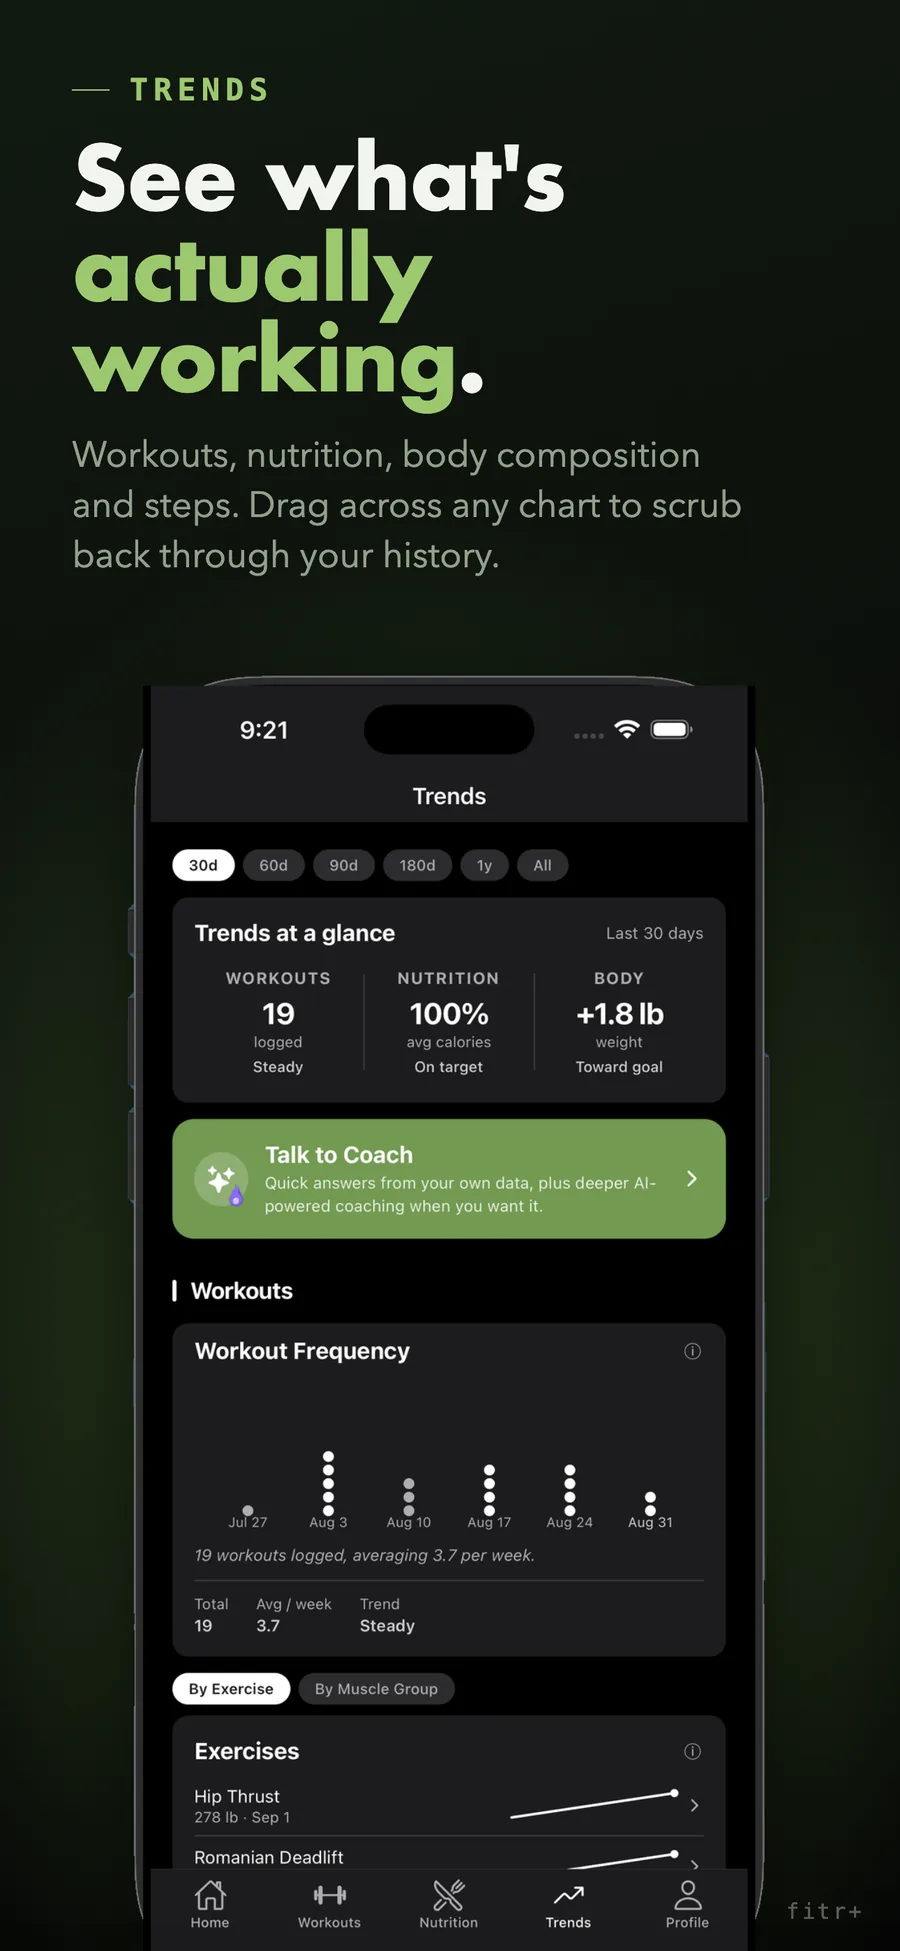
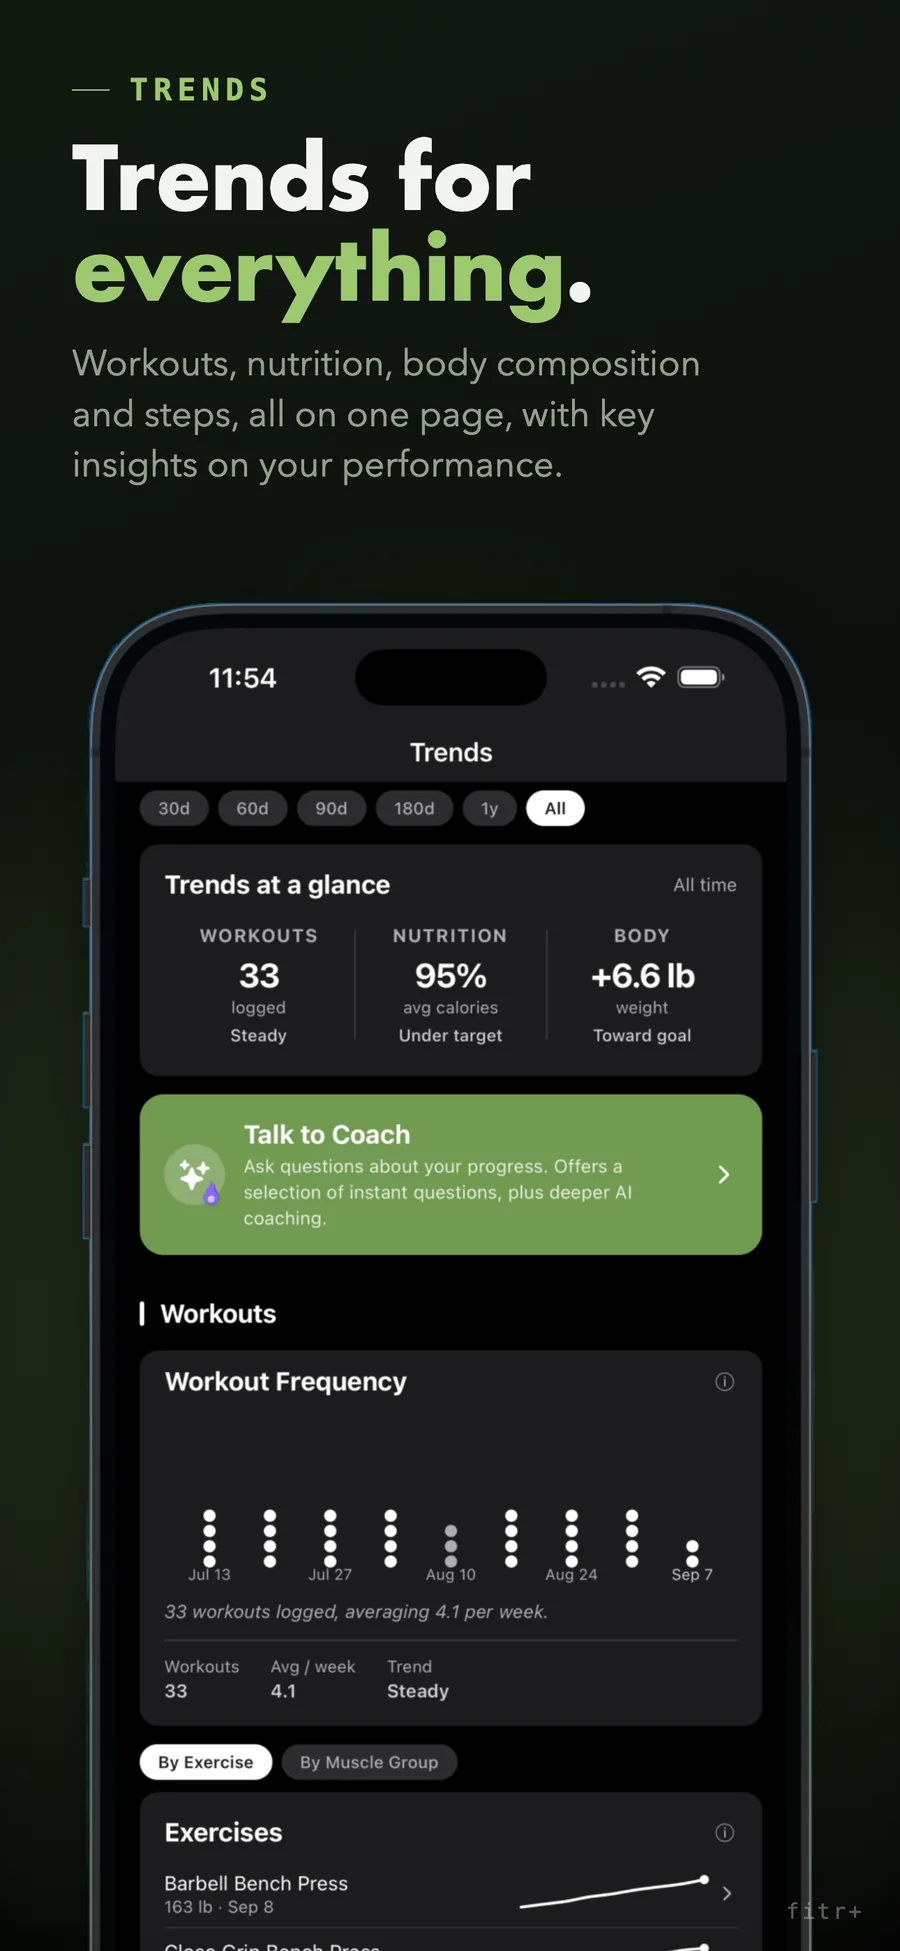
Update the fitr+ gallery to the new screenshot set
Eight slides replacing seven, in the App Store order, generated from the
same exports so the store page and the site cannot drift.

Changed region(s): [[0.0622, 0.0615, 0.9333, 1.0], [0.6222, 0.9534, 0.7156, 1.0], [0.4667, 0.9534, 0.5289, 1.0]]

diff --git a/index.html b/index.html
@@ -70,38 +70,43 @@ title: DataCraft Studio
 
     <div class="gallery">
       <figure>
-        <button class="gallery-trigger" type="button" aria-label="View Home screenshot larger">
-          <img src="{{ '/assets/images/shot-home.webp' | relative_url }}" alt="fitr+ home screen showing the muscle map and today's tasks">
-        </button>
-      </figure>
-      <figure>
         <button class="gallery-trigger" type="button" aria-label="View Log Workouts screenshot larger">
-          <img src="{{ '/assets/images/shot-log_workouts.webp' | relative_url }}" alt="fitr+ screen logging sets, reps, and rest for a workout">
+          <img src="{{ '/assets/images/shot-log_workouts.webp' | relative_url }}" alt="fitr+ logging sets, weight and reps with a rest timer">
         </button>
       </figure>
       <figure>
-        <button class="gallery-trigger" type="button" aria-label="View AI Workout Plan screenshot larger">
-          <img src="{{ '/assets/images/shot-ai_workout_split.webp' | relative_url }}" alt="fitr+ workouts screen with an AI-built workout plan">
+        <button class="gallery-trigger" type="button" aria-label="View Auto-log Meals screenshot larger">
+          <img src="{{ '/assets/images/shot-auto_log_meals.webp' | relative_url }}" alt="fitr+ logging a meal and scheduling it as a typical lunch">
         </button>
       </figure>
       <figure>
-        <button class="gallery-trigger" type="button" aria-label="View Log Meals screenshot larger">
-          <img src="{{ '/assets/images/shot-log_meals.webp' | relative_url }}" alt="fitr+ food search screen while logging a meal">
-        </button>
-      </figure>
-      <figure>
-        <button class="gallery-trigger" type="button" aria-label="View AI Meal Recipes screenshot larger">
-          <img src="{{ '/assets/images/shot-ai_meal_recipes.webp' | relative_url }}" alt="fitr+ AI-generated recipe with ingredients, steps, and macros">
+        <button class="gallery-trigger" type="button" aria-label="View Progress Overview screenshot larger">
+          <img src="{{ '/assets/images/shot-progress_overview.webp' | relative_url }}" alt="fitr+ body map shaded by how much each muscle has been trained">
         </button>
       </figure>
       <figure>
         <button class="gallery-trigger" type="button" aria-label="View Trends screenshot larger">
-          <img src="{{ '/assets/images/shot-trends.webp' | relative_url }}" alt="fitr+ trends screen with workout and nutrition charts">
+          <img src="{{ '/assets/images/shot-trends.webp' | relative_url }}" alt="fitr+ trends screen with workout frequency and per-exercise charts">
+        </button>
+      </figure>
+      <figure>
+        <button class="gallery-trigger" type="button" aria-label="View Your Day screenshot larger">
+          <img src="{{ '/assets/images/shot-your_day.webp' | relative_url }}" alt="fitr+ home screen showing what to do next above the body map">
+        </button>
+      </figure>
+      <figure>
+        <button class="gallery-trigger" type="button" aria-label="View Your e-coach screenshot larger">
+          <img src="{{ '/assets/images/shot-e_coach.webp' | relative_url }}" alt="fitr+ e-coach introducing itself on the home screen">
+        </button>
+      </figure>
+      <figure>
+        <button class="gallery-trigger" type="button" aria-label="View AI Workout Plans screenshot larger">
+          <img src="{{ '/assets/images/shot-ai_workout_plans.webp' | relative_url }}" alt="fitr+ workouts screen with an AI-built workout plan">
         </button>
       </figure>
       <figure>
         <button class="gallery-trigger" type="button" aria-label="View Ask Coach screenshot larger">
-          <img src="{{ '/assets/images/shot-ai_coach.webp' | relative_url }}" alt="fitr+ Ask Coach screen with question themes">
+          <img src="{{ '/assets/images/shot-ask_coach.webp' | relative_url }}" alt="fitr+ Talk to Coach screen listing instant and AI-powered questions">
         </button>
       </figure>
     </div>
